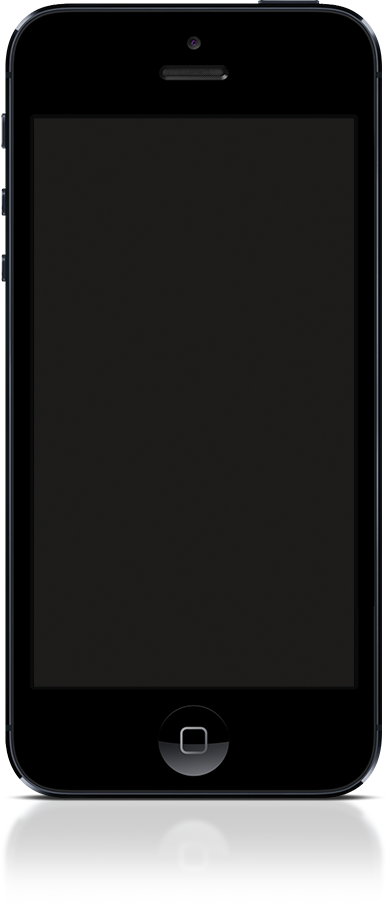
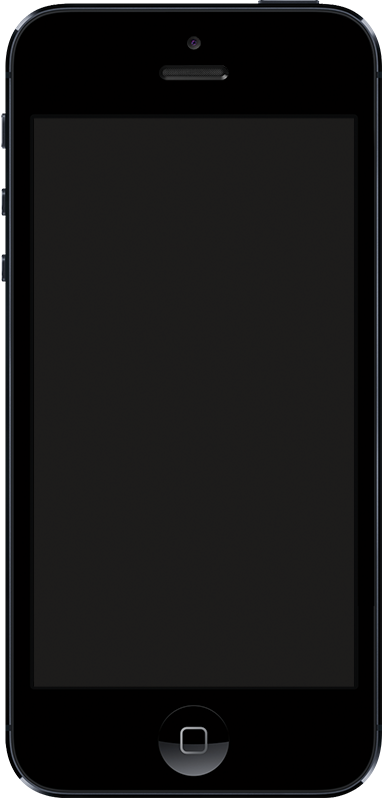
added shadow and reflection variations

diff --git a/index.css b/index.css
@@ -11,6 +11,7 @@
   display: block;
   width: 388px;
   height: 906px;
+  margin: -4px -6px 0 -6px; /* line up iphone edges with box by default */
   background: url(images/iphone-5.png) no-repeat transparent;
   background-size: 100% 100%; /* always cover it */
 }
@@ -43,4 +44,17 @@
   top: 118px;
   left: 34px;
   overflow: hidden;
+}
+
+
+/**
+ * Variations.
+ */
+
+.iphone-5-template[data-variation="shadow"] {
+  margin-bottom: -3px; /* account for shadow */
+}
+
+.iphone-5-template[data-variation="reflection"] {
+  margin-bottom: -108px; /* account for shadow and reflection */
 }
